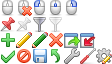
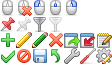
Handy Clicks 0.1.2.0pre19

Changed region(s): [[0.8571, 0.5, 1.0, 0.75]]

diff --git a/chrome/content/utils.js b/chrome/content/utils.js
@@ -512,8 +512,8 @@ var handyClicksUtils = {
 	get appInfo() {
 		delete this.appInfo;
 		return this.appInfo = Components.classes["@mozilla.org/xre/app-info;1"]
-			.getService(Components.interfaces.nsIXULAppInfo);
-			//.QueryInterface(Components.interfaces.nsIXULRuntime);
+			.getService(Components.interfaces.nsIXULAppInfo)
+			.QueryInterface(Components.interfaces.nsIXULRuntime);
 	},
 	get isSeaMonkey() {
 		delete this.isSeaMonkey;
@@ -527,6 +527,33 @@ var handyClicksUtils = {
 		}
 		delete this.fxVersion;
 		return this.fxVersion = ver;
+	},
+
+	get lineBreak() {
+		// Based on code of Adblock Plus 1.2.1
+		// chrome\adblockplus.jar\content\utils.js
+		// Platform's line breaks by reading prefs.js
+		var br = "\n";
+		try {
+			var prefFile = this.getFileByAlias("PrefF");
+			var is = Components.classes["@mozilla.org/network/file-input-stream;1"]
+				.createInstance(Components.interfaces.nsIFileInputStream);
+			is.init(prefFile, 0x01, 0444, 0);
+			var sis = Components.classes["@mozilla.org/scriptableinputstream;1"]
+				.createInstance(Components.interfaces.nsIScriptableInputStream);
+			sis.init(is);
+			var data = sis.read(256);
+			sis.close();
+			if(/\r\n?|\n\r?/.test(data))
+				br = RegExp.lastMatch;
+		}
+		catch (e) {
+		}
+		delete this.lineBreak;
+		return this.lineBreak = br;
+	},
+	platformLineBreaks: function(str) {
+		return str.replace(/\r\n?|\n\r?/g, this.lineBreak);
 	},
 
 	isObject: function(obj) {

diff --git a/chrome/content/sets.js b/chrome/content/sets.js
@@ -2324,7 +2324,7 @@ var handyClicksSets = {
 			if(this.prefsSaved)
 				this.applyButton.disabled = true;
 		}
-		var panel = this.$("hc-sets-tree-partialImportPanel");
+		var panel = this.$("hc-sets-tree-importPanel");
 		panel.hidden = !isImport;
 		if(!isImport)
 			return;
@@ -2335,8 +2335,14 @@ var handyClicksSets = {
 				elt.setAttribute("label", elt.getAttribute(lAttr));
 			}
 		);
-		if(!updMode)
-			this.$("hc-sets-tree-buttonImportOk").focus();
+
+		// Set same width to Ok and Cancel buttons:
+		var okBtn = this.$("hc-sets-tree-buttonImportOk");
+		var cancelBtn = this.$("hc-sets-tree-buttonImportCancel");
+		okBtn.width = cancelBtn.width = null; // Reset width
+		okBtn.width = cancelBtn.width = Math.max(okBtn.boxObject.width, cancelBtn.boxObject.width);
+
+		!updMode && okBtn.focus();
 	},
 	toggleImportType: function() {
 		this.setImportStatus(this._import, !this._importPartial, this._importFromClipboard, true);

diff --git a/chrome/content/style/editor.css b/chrome/content/style/editor.css
@@ -70,7 +70,7 @@ hbox[hc_fixedFields="true"] {
 	opacity: 0.5;
 }
 .hcEditCodeButton {
-	-moz-image-region: rect(32px 32px 48px 16px);
+	-moz-image-region: rect(32px 112px 48px 96px);
 	min-width: 0;
 }
 .hcEditCodeButton, .hcEditCodeButton * {
